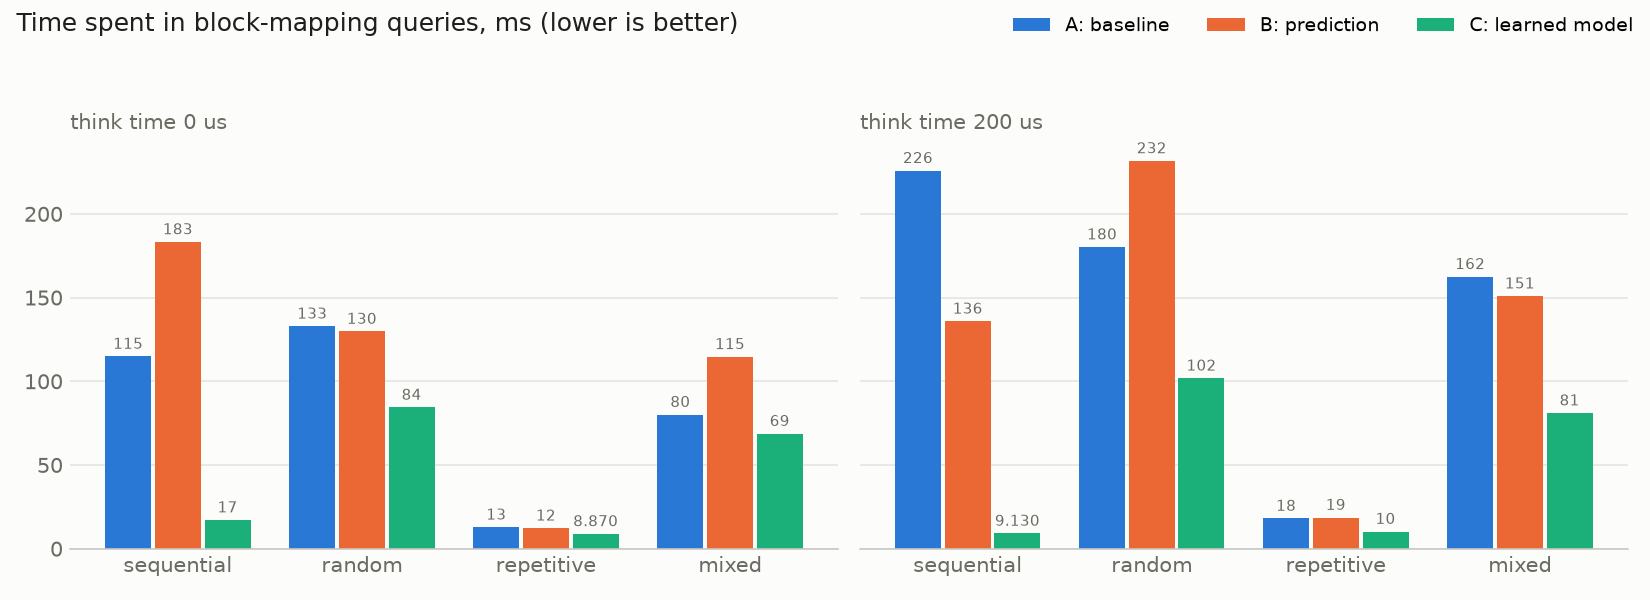
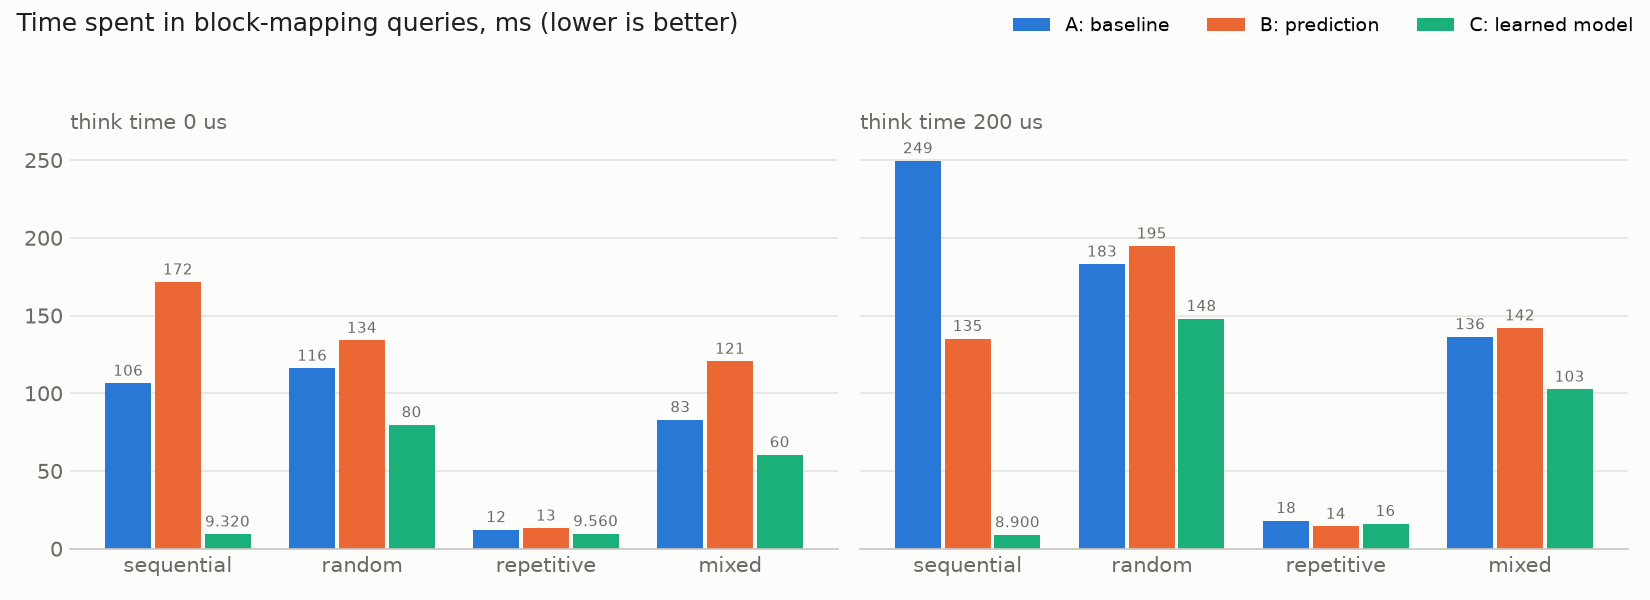
update evaluation results for the tree followed by the filesystem

diff --git a/experiments/summary.md b/experiments/summary.md
@@ -10,19 +10,19 @@ Median of 3 runs (seeds [1, 2, 3]). Cache budget 1024 KiB, 16 MiB of file data, 
 
 | Workload | A | B | C |
 |---|---:|---:|---:|
-| sequential | 176 | 131 | 163 |
-| random | 342 | 293 | 275 |
-| repetitive | 314 | 194 | 202 |
-| mixed | 243 | 257 | 247 |
+| sequential | 158 | 121 | 81 |
+| random | 315 | 300 | 254 |
+| repetitive | 303 | 193 | 121 |
+| mixed | 242 | 265 | 212 |
 
 **Read p99 (us)**
 
 | Workload | A | B | C |
 |---|---:|---:|---:|
-| sequential | 517 | 405 | 514 |
-| random | 814 | 598 | 503 |
-| repetitive | 728 | 527 | 500 |
-| mixed | 647 | 617 | 532 |
+| sequential | 431 | 383 | 313 |
+| random | 730 | 661 | 594 |
+| repetitive | 735 | 567 | 460 |
+| mixed | 602 | 685 | 567 |
 
 **Write latency (us)**
 
@@ -31,25 +31,25 @@ Median of 3 runs (seeds [1, 2, 3]). Cache budget 1024 KiB, 16 MiB of file data, 
 | sequential | 0 | 0 | 0 |
 | random | 0 | 0 | 0 |
 | repetitive | 0 | 0 | 0 |
-| mixed | 250 | 242 | 231 |
+| mixed | 260 | 253 | 203 |
 
 **Throughput (ops/s)**
 
 | Workload | A | B | C |
 |---|---:|---:|---:|
-| sequential | 5,688 | 7,656 | 6,121 |
-| random | 2,924 | 3,409 | 3,638 |
-| repetitive | 3,181 | 5,161 | 4,957 |
-| mixed | 4,107 | 3,920 | 4,071 |
+| sequential | 6,323 | 8,262 | 12,383 |
+| random | 3,174 | 3,333 | 3,933 |
+| repetitive | 3,299 | 5,190 | 8,233 |
+| mixed | 4,103 | 3,788 | 4,736 |
 
 **Cache hit rate**
 
 | Workload | A | B | C |
 |---|---:|---:|---:|
-| sequential | 0 | 0.997 | 0.794 |
+| sequential | 0 | 0.997 | 0.997 |
 | random | 0.056 | 0.054 | 0.056 |
-| repetitive | 0.046 | 0.808 | 0.748 |
-| mixed | 0.039 | 0.454 | 0.205 |
+| repetitive | 0.046 | 0.807 | 0.860 |
+| mixed | 0.039 | 0.454 | 0.269 |
 
 **Prefetch precision**
 
@@ -58,25 +58,25 @@ Median of 3 runs (seeds [1, 2, 3]). Cache budget 1024 KiB, 16 MiB of file data, 
 | sequential | 0 | 1 | 1 |
 | random | 0 | 0.043 | 0 |
 | repetitive | 0 | 0.974 | 1 |
-| mixed | 0 | 0.674 | 0.764 |
+| mixed | 0 | 0.674 | 0.810 |
 
 **Reads served by prefetch**
 
 | Workload | A | B | C |
 |---|---:|---:|---:|
-| sequential | 0 | 0.997 | 0.794 |
+| sequential | 0 | 0.997 | 0.997 |
 | random | 0 | 0.011 | 0 |
-| repetitive | 0 | 0.766 | 0.697 |
-| mixed | 0 | 0.421 | 0.167 |
+| repetitive | 0 | 0.766 | 0.814 |
+| mixed | 0 | 0.422 | 0.236 |
 
 **Wasted prefetches**
 
 | Workload | A | B | C |
 |---|---:|---:|---:|
 | sequential | 0 | 0 | 0 |
-| random | 0 | 2,048 | 0 |
+| random | 0 | 2,047 | 0 |
 | repetitive | 0 | 169 | 0 |
-| mixed | 0 | 1,510 | 391 |
+| mixed | 0 | 1,510 | 406 |
 
 **Disk reads**
 
@@ -84,8 +84,8 @@ Median of 3 runs (seeds [1, 2, 3]). Cache budget 1024 KiB, 16 MiB of file data, 
 |---|---:|---:|---:|
 | sequential | 8,192 | 8,192 | 8,192 |
 | random | 7,735 | 9,919 | 7,735 |
-| repetitive | 7,815 | 7,988 | 7,814 |
-| mixed | 7,100 | 9,060 | 7,650 |
+| repetitive | 7,815 | 7,988 | 7,817 |
+| mixed | 7,100 | 9,059 | 7,714 |
 
 **Memory (KiB)**
 
@@ -100,28 +100,28 @@ Median of 3 runs (seeds [1, 2, 3]). Cache budget 1024 KiB, 16 MiB of file data, 
 
 | Workload | A | B | C |
 |---|---:|---:|---:|
-| sequential | 8,192 | 8,225 | 725 |
+| sequential | 8,192 | 8,225 | 287 |
 | random | 5,313 | 6,115 | 5,313 |
 | repetitive | 559 | 560 | 559 |
-| mixed | 4,660 | 5,086 | 4,012 |
+| mixed | 4,660 | 5,086 | 3,854 |
 
 **Mapping time (ms)**
 
 | Workload | A | B | C |
 |---|---:|---:|---:|
-| sequential | 115 | 183 | 17 |
-| random | 133 | 130 | 84 |
-| repetitive | 13 | 12 | 8.870 |
-| mixed | 80 | 115 | 69 |
+| sequential | 106 | 172 | 9.320 |
+| random | 116 | 134 | 80 |
+| repetitive | 12 | 13 | 9.560 |
+| mixed | 83 | 121 | 60 |
 
 **Model accuracy (C only)**
 
 | Workload | A | B | C |
 |---|---:|---:|---:|
-| sequential | 0 | 0 | 0.755 |
+| sequential | 0 | 0 | 1 |
 | random | 0 | 0 | 0 |
-| repetitive | 0 | 0 | 0.787 |
-| mixed | 0 | 0 | 0.279 |
+| repetitive | 0 | 0 | 1.000 |
+| mixed | 0 | 0 | 0.350 |
 
 ## Think time 200 us between operations
 
@@ -130,19 +130,19 @@ Median of 3 runs (seeds [1, 2, 3]). Cache budget 1024 KiB, 16 MiB of file data, 
 
 | Workload | A | B | C |
 |---|---:|---:|---:|
-| sequential | 408 | 79 | 86 |
-| random | 510 | 501 | 359 |
-| repetitive | 503 | 156 | 129 |
-| mixed | 508 | 333 | 288 |
+| sequential | 435 | 80 | 77 |
+| random | 509 | 487 | 460 |
+| repetitive | 506 | 158 | 175 |
+| mixed | 483 | 331 | 364 |
 
 **Read p99 (us)**
 
 | Workload | A | B | C |
 |---|---:|---:|---:|
-| sequential | 1,075 | 205 | 334 |
-| random | 1,079 | 1,077 | 702 |
-| repetitive | 1,070 | 765 | 516 |
-| mixed | 1,082 | 1,005 | 734 |
+| sequential | 934 | 218 | 168 |
+| random | 1,108 | 1,112 | 965 |
+| repetitive | 1,187 | 862 | 1,013 |
+| mixed | 1,379 | 1,339 | 1,035 |
 
 **Write latency (us)**
 
@@ -151,25 +151,25 @@ Median of 3 runs (seeds [1, 2, 3]). Cache budget 1024 KiB, 16 MiB of file data, 
 | sequential | 0 | 0 | 0 |
 | random | 0 | 0 | 0 |
 | repetitive | 0 | 0 | 0 |
-| mixed | 569 | 399 | 296 |
+| mixed | 527 | 400 | 383 |
 
 **Throughput (ops/s)**
 
 | Workload | A | B | C |
 |---|---:|---:|---:|
-| sequential | 2,453 | 12,614 | 11,598 |
-| random | 1,961 | 1,997 | 2,788 |
-| repetitive | 1,989 | 6,425 | 7,773 |
-| mixed | 1,944 | 2,946 | 3,458 |
+| sequential | 2,297 | 12,569 | 12,933 |
+| random | 1,965 | 2,054 | 2,176 |
+| repetitive | 1,976 | 6,313 | 5,713 |
+| mixed | 2,050 | 2,965 | 2,731 |
 
 **Cache hit rate**
 
 | Workload | A | B | C |
 |---|---:|---:|---:|
-| sequential | 0 | 0.997 | 0.968 |
+| sequential | 0 | 0.997 | 0.997 |
 | random | 0.056 | 0.054 | 0.056 |
-| repetitive | 0.046 | 0.812 | 0.833 |
-| mixed | 0.039 | 0.457 | 0.254 |
+| repetitive | 0.046 | 0.812 | 0.860 |
+| mixed | 0.039 | 0.457 | 0.279 |
 
 **Prefetch precision**
 
@@ -178,16 +178,16 @@ Median of 3 runs (seeds [1, 2, 3]). Cache budget 1024 KiB, 16 MiB of file data, 
 | sequential | 0 | 1 | 1 |
 | random | 0 | 0.043 | 0 |
 | repetitive | 0 | 0.974 | 1 |
-| mixed | 0 | 0.675 | 0.797 |
+| mixed | 0 | 0.675 | 0.812 |
 
 **Reads served by prefetch**
 
 | Workload | A | B | C |
 |---|---:|---:|---:|
-| sequential | 0 | 0.997 | 0.968 |
+| sequential | 0 | 0.997 | 0.997 |
 | random | 0 | 0.011 | 0 |
-| repetitive | 0 | 0.771 | 0.786 |
-| mixed | 0 | 0.424 | 0.217 |
+| repetitive | 0 | 0.771 | 0.814 |
+| mixed | 0 | 0.424 | 0.240 |
 
 **Wasted prefetches**
 
@@ -196,16 +196,16 @@ Median of 3 runs (seeds [1, 2, 3]). Cache budget 1024 KiB, 16 MiB of file data, 
 | sequential | 0 | 0 | 0 |
 | random | 0 | 2,048 | 0 |
 | repetitive | 0 | 169 | 0 |
-| mixed | 0 | 1,510 | 415 |
+| mixed | 0 | 1,510 | 420 |
 
 **Disk reads**
 
 | Workload | A | B | C |
 |---|---:|---:|---:|
-| sequential | 8,192 | 8,193 | 8,192 |
+| sequential | 8,192 | 8,192 | 8,192 |
 | random | 7,735 | 9,919 | 7,735 |
-| repetitive | 7,815 | 7,990 | 7,817 |
-| mixed | 7,100 | 9,062 | 7,719 |
+| repetitive | 7,815 | 7,988 | 7,818 |
+| mixed | 7,100 | 9,062 | 7,739 |
 
 **Memory (KiB)**
 
@@ -220,25 +220,25 @@ Median of 3 runs (seeds [1, 2, 3]). Cache budget 1024 KiB, 16 MiB of file data, 
 
 | Workload | A | B | C |
 |---|---:|---:|---:|
-| sequential | 8,192 | 8,225 | 326 |
+| sequential | 8,192 | 8,225 | 283 |
 | random | 5,313 | 6,115 | 5,313 |
 | repetitive | 559 | 560 | 559 |
-| mixed | 4,660 | 5,086 | 3,845 |
+| mixed | 4,660 | 5,086 | 3,863 |
 
 **Mapping time (ms)**
 
 | Workload | A | B | C |
 |---|---:|---:|---:|
-| sequential | 226 | 136 | 9.130 |
-| random | 180 | 232 | 102 |
-| repetitive | 18 | 19 | 10 |
-| mixed | 162 | 151 | 81 |
+| sequential | 249 | 135 | 8.900 |
+| random | 183 | 195 | 148 |
+| repetitive | 18 | 14 | 16 |
+| mixed | 136 | 142 | 103 |
 
 **Model accuracy (C only)**
 
 | Workload | A | B | C |
 |---|---:|---:|---:|
-| sequential | 0 | 0 | 0.992 |
+| sequential | 0 | 0 | 1 |
 | random | 0 | 0 | 0 |
-| repetitive | 0 | 0 | 0.993 |
-| mixed | 0 | 0 | 0.333 |
+| repetitive | 0 | 0 | 1.000 |
+| mixed | 0 | 0 | 0.377 |
